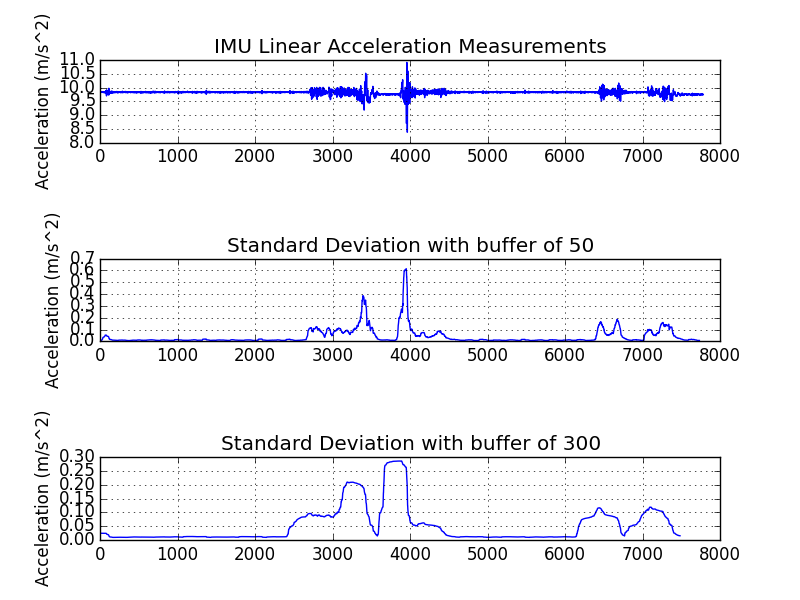
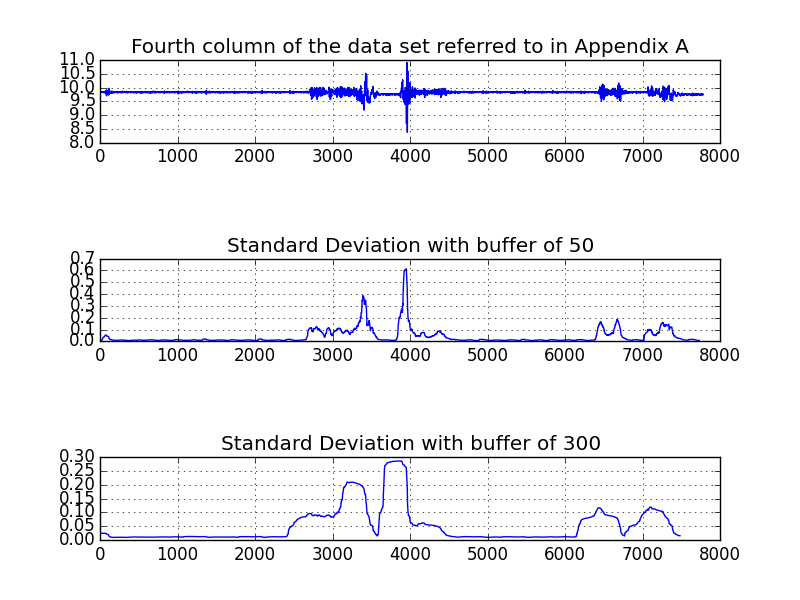
Beschriftung der Grafen geändert

diff --git a/python/standard_deviation.py b/python/standard_deviation.py
@@ -1,7 +1,6 @@
 from pylab import *
 from numpy import genfromtxt
 import numpy as np
-#import math
 
 def quadrat(x):
   return x ** 2
@@ -33,22 +32,19 @@ d = genfromtxt('feature_gen_dataset1.csv', delimiter=',')
 #d = [3,4,1,10,11,20,5,6,7,8,20]
 subplot(p,1,1)
 plot(d[:,3])
-ylabel('Acceleration (m/s^2)')
-title('IMU Linear Acceleration Measurements')
+title('Fourth column of the data set referred to in Appendix A')
 grid(True)
 
 
 f = compute_standard_deviation(d[:,3],50)
 subplot(p,1,3)
 plot(f)
-ylabel('Acceleration (m/s^2)')
 title('Standard Deviation with buffer of 50')
 grid(True)
 
 f = compute_standard_deviation(d[:,3],300)
 subplot(p,1,5)
 plot(f)
-ylabel('Acceleration (m/s^2)')
 title('Standard Deviation with buffer of 300')
 grid(True)
 
